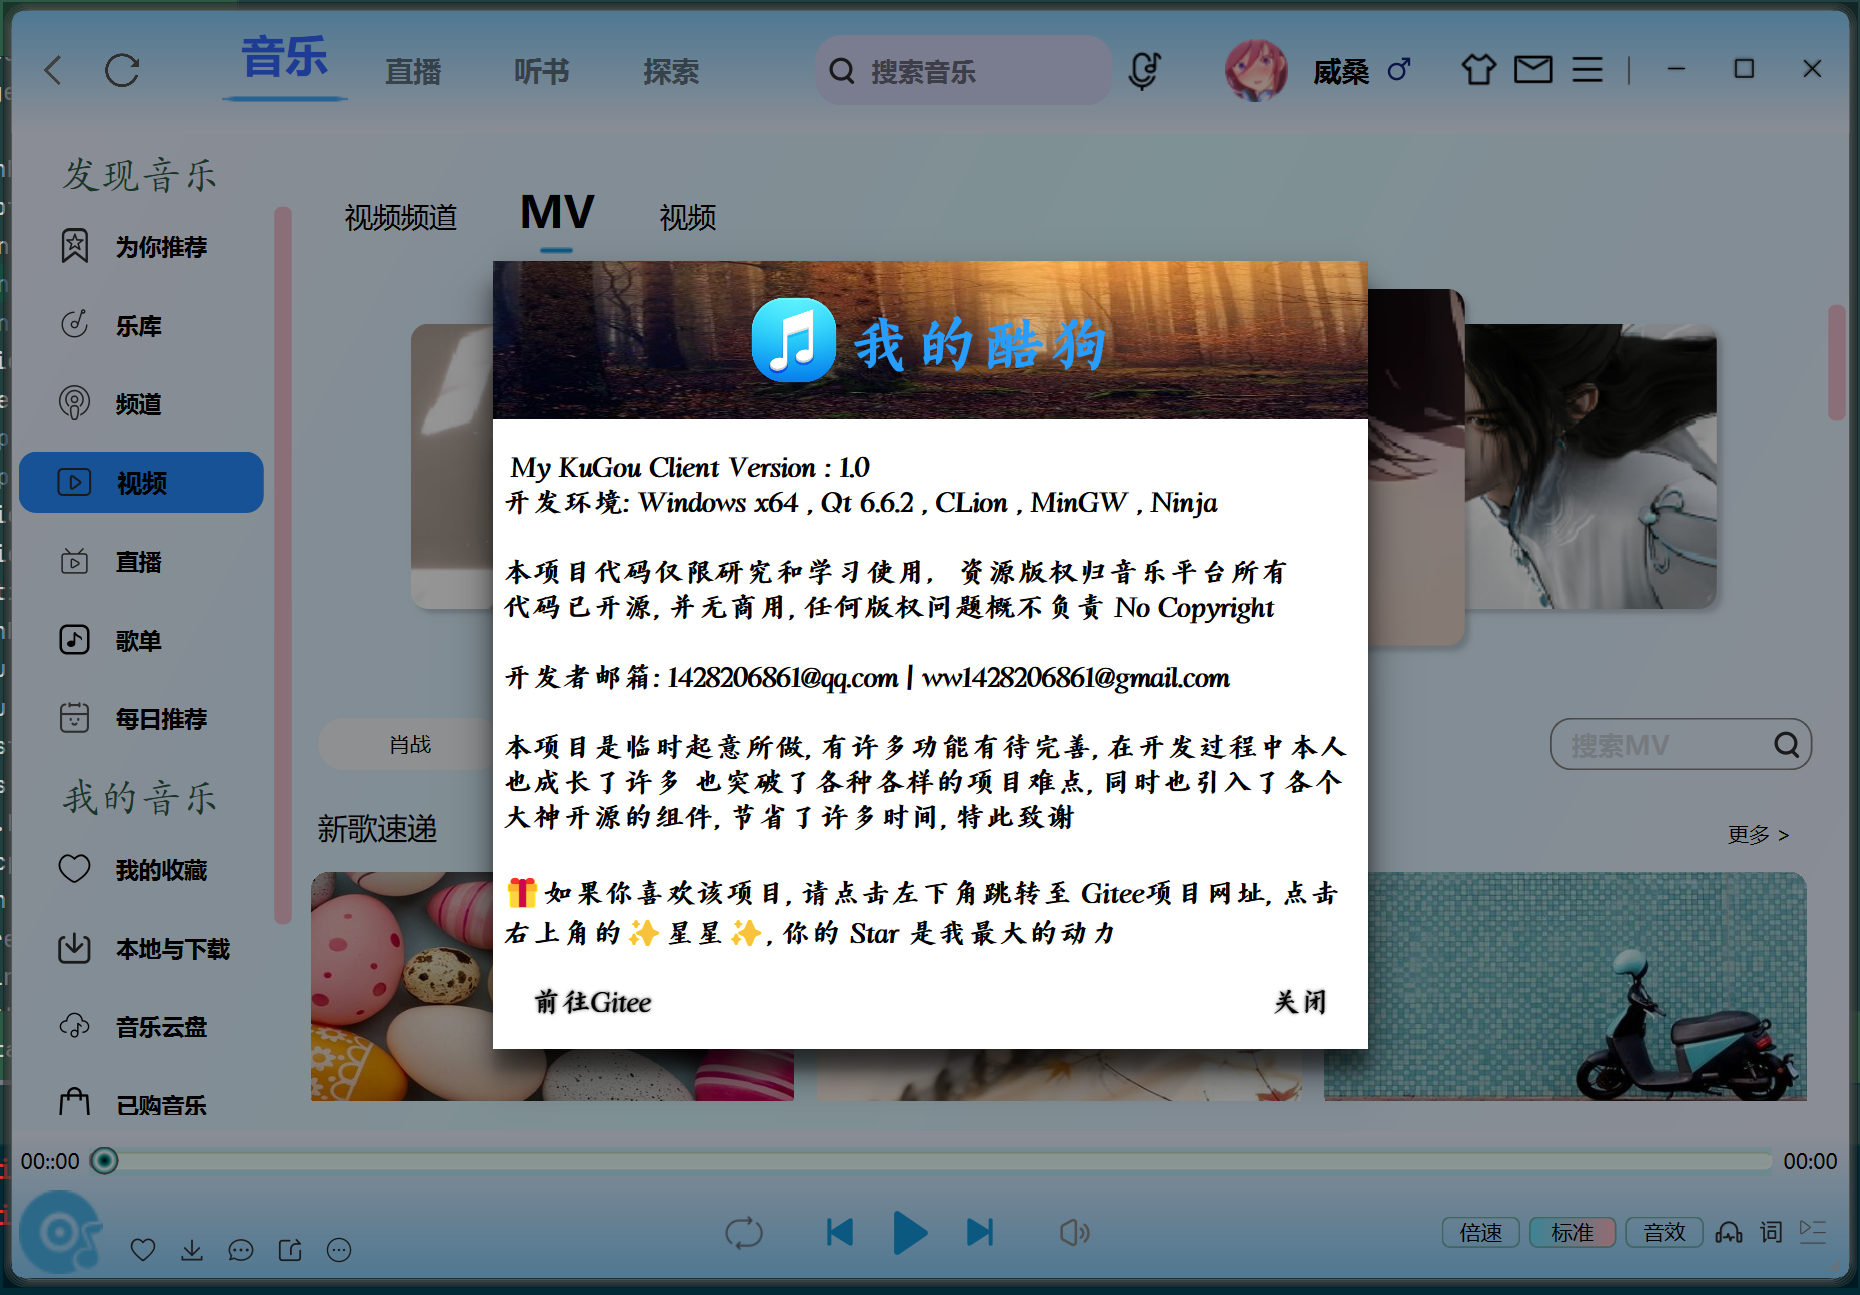
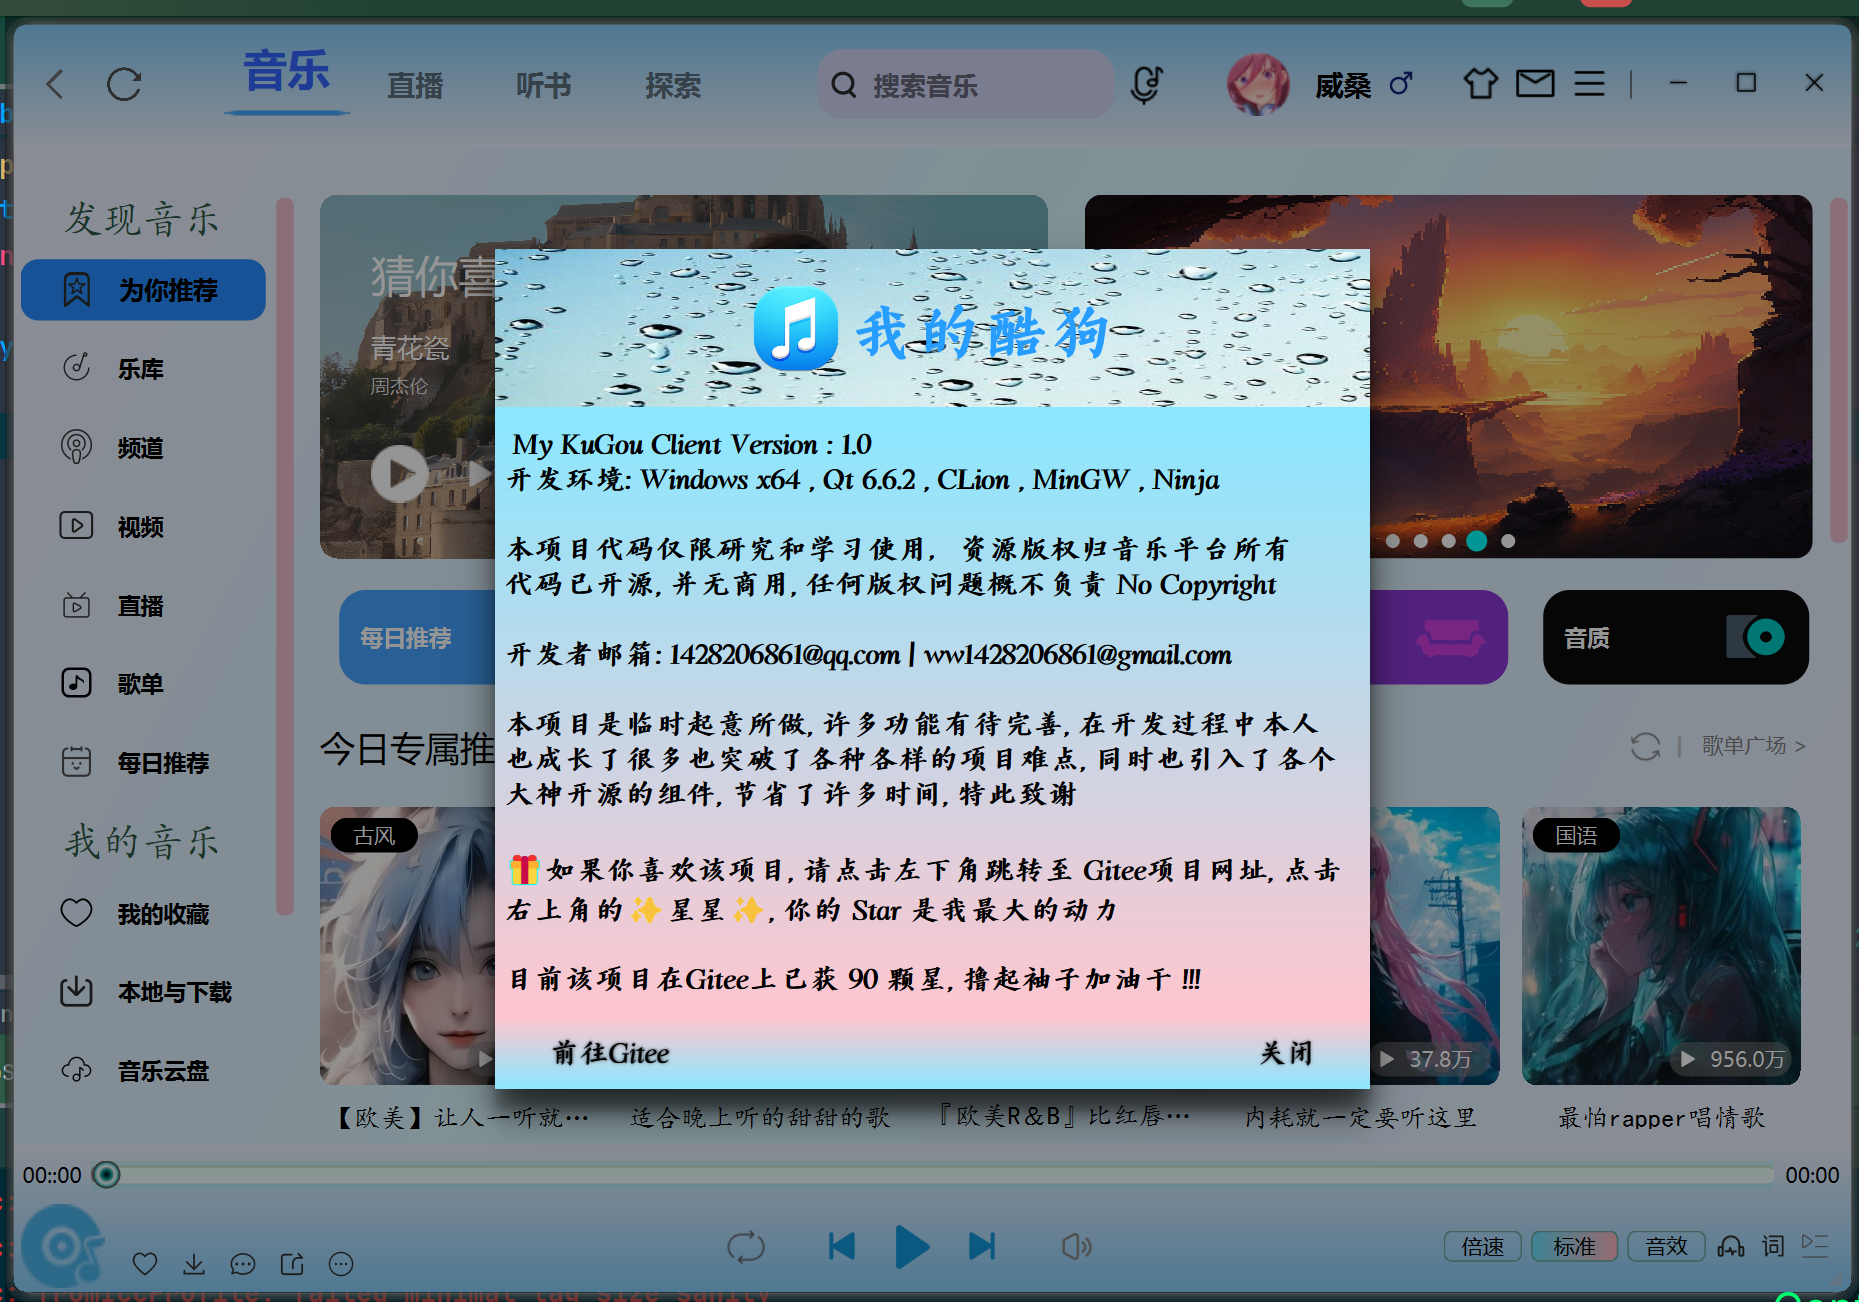
美化AboutDialog

diff --git a/ui/MyDialog/AboutDialog/AboutDialog.cpp b/ui/MyDialog/AboutDialog/AboutDialog.cpp
@@ -7,6 +7,10 @@
 #include "logger.hpp"
 #include "RippleButton.h"
 #include "ElaText.h"
+#include "Async.h"
+
+#include <QJsonDocument>
+#include <QJsonObject>
 #include <QFontDatabase>
 #include <QVBoxLayout>
 #include <QDesktopServices>
@@ -14,13 +18,13 @@
 #include <QPainter>
 #include <QPainterPath>
 #include <QRandomGenerator>
-#include <QUrl>
 
 AboutDialog::AboutDialog(QWidget *parent)
     : QWidget(parent)
     , m_dialog(new QtMaterialDialog)
     , m_topWidget(new QWidget(this))
 {
+    this->setAutoFillBackground(true);  // 启用背景填充
     this->m_font = QFont("AaSongLiuKaiTi");
 
     this->setSizePolicy(QSizePolicy::Expanding, QSizePolicy::Expanding);
@@ -34,8 +38,8 @@ AboutDialog::AboutDialog(QWidget *parent)
     m_dialog->setSizePolicy(QSizePolicy::Expanding, QSizePolicy::Expanding);
 
     auto dialogWidget = new QWidget;
-    dialogWidget->setAttribute(Qt::WA_TranslucentBackground);
-    dialogWidget->setFixedSize(500,450);
+    dialogWidget->setAttribute(Qt::WA_TranslucentBackground,false);
+    dialogWidget->setFixedSize(500,480);
 
     dialogLayout->addWidget(dialogWidget);
 
@@ -44,11 +48,13 @@ AboutDialog::AboutDialog(QWidget *parent)
     dialogWidgetLayout->setContentsMargins(0, 0, 0, 0);
     dialogWidgetLayout->setSpacing(0);
     initDialog(dialogWidgetLayout);
+    this->setStyleSheet("background-color: qlineargradient(spread:pad,x1:0, y1:0,x2:0, y2:1,stop:0 rgba(105, 225, 255, 200), stop:1 rgba(255, 182, 193, 200));");
 }
 
 void AboutDialog::initDialog(QVBoxLayout *lay) {
     //最上面先来个widget,填充背景图片
     this->m_topWidget->setFixedHeight(90);
+    this->m_topWidget->setContentsMargins(0, 0, 0, 0);
     this->m_topWidget->setSizePolicy(QSizePolicy::Expanding, QSizePolicy::Fixed);
     this->m_topWidget->setObjectName("topWidget");
     this->m_topWidget->setStyleSheet(QString("QWidget#topWidget{background-color: transparent;border-image: url(:/RectCover/Res/rectcover/music-rect-cover%1.jpg);}").
@@ -68,63 +74,88 @@ void AboutDialog::initDialog(QVBoxLayout *lay) {
     topWidgetLayout->addWidget(lab1);
     topWidgetLayout->addWidget(lab2);
     topWidgetLayout->addStretch();
+    QString url = "https://gitee.com/api/v5/repos/a-mo-xi-wei/KuGouApp";
+    const auto future = Async::runAsync(QThreadPool::globalInstance(), &AboutDialog::getGiteeProjectStar,
+        this,url);
+    Async::onResultReady(future, this, [=](const int &stars) {
+        //中间的介绍文本
+        QString descText = QString("\n  My KuGou Client Version : 1.0\n"
+            " 开发环境: Windows x64 , Qt 6.6.2 , CLion , MinGW , Ninja\n\n"
+            " 本项目代码仅限研究和学习使用，资源版权归音乐平台所有\n"
+            " 代码已开源, 并无商用, 任何版权问题概不负责 No Copyright\n\n"
+            " 开发者邮箱: 1428206861@qq.com | ww1428206861@gmail.com\n\n"
+            " 本项目是临时起意所做, 许多功能有待完善, 在开发过程中本人\n 也成长了很多"
+            "也突破了各种各样的项目难点, 同时也引入了各个\n 大神开源的组件, 节省了许多时间, 特此致谢\n\n"
+            " 🎁如果你喜欢该项目, 请点击左下角跳转至 Gitee项目网址, 点击\n 右上角的✨星星✨, 你的 Star 是我最大的动力\n\n"
+            " 目前该项目在Gitee上已获 %1 颗星, 撸起袖子加油干 !!! \n\n").arg(stars);
+        ElaText* descTitle = new ElaText(descText, this);
+        auto style = descTitle->styleSheet();
+        descTitle->setStyleSheet("background-color: qlineargradient(spread:pad,x1:0, y1:0,x2:0, y2:1,stop:0 rgba(105, 225, 255, 200), stop:1 rgba(255, 182, 193, 200));");
+        descTitle->setTextStyle(ElaTextType::BodyStrong);
+        auto font = QFont("AaSongLiuKaiTi");//需要通过KuGouApp::initFontRes()打印得知真实字体名
+        font.setPixelSize(17);
+        font.setWeight(QFont::Bold);
+        descTitle->setFont(font);
 
-    //中间的介绍文本
-    QString descText = "\n  My KuGou Client Version : 1.0\n"
-        " 开发环境: Windows x64 , Qt 6.6.2 , CLion , MinGW , Ninja\n\n"
-        " 本项目代码仅限研究和学习使用，资源版权归音乐平台所有\n"
-        " 代码已开源, 并无商用, 任何版权问题概不负责 No Copyright\n\n"
-        " 开发者邮箱: 1428206861@qq.com | ww1428206861@gmail.com\n\n"
-        " 本项目是临时起意所做, 有许多功能有待完善, 在开发过程中本人\n 也成长了许多"
-        " 也突破了各种各样的项目难点, 同时也引入了各个\n 大神开源的组件, 节省了许多时间, 特此致谢\n\n"
-        " 🎁如果你喜欢该项目, 请点击左下角跳转至 Gitee项目网址, 点击\n 右上角的✨星星✨, 你的 Star 是我最大的动力\n\n";
-    ElaText* descTitle = new ElaText(descText, this);
-    descTitle->setTextStyle(ElaTextType::BodyStrong);
-    auto font = QFont("AaSongLiuKaiTi");//需要通过KuGouApp::initFontRes()打印得知真实字体名
-    font.setPixelSize(17);
-    font.setWeight(QFont::Bold);
-    descTitle->setFont(font);
+        lay->addWidget(this->m_topWidget);
+        lay->addWidget(descTitle);
+        lay->addStretch();
 
-    lay->addWidget(this->m_topWidget);
-    lay->addWidget(descTitle);
-    lay->addStretch();
+        //底部两个按钮
+        auto goToGiteeButton = new RippleButton(m_dialog);
+        goToGiteeButton->setCursor(Qt::PointingHandCursor);
+        goToGiteeButton->setText("前往Gitee");
+        goToGiteeButton->setFillColor(QColor(QStringLiteral("#969696")));
+        goToGiteeButton->setStyleSheet("background: transparent; border: none;");
+        goToGiteeButton->setRadius(10);
+        goToGiteeButton->setSpeed(5);
+        this->m_font.setPointSize(13);
+        this->m_font.setBold(false);
+        goToGiteeButton->setFont(this->m_font);
+        auto closeButton = new RippleButton(m_dialog);
+        closeButton->setCursor(Qt::PointingHandCursor);
+        closeButton->setText("关闭");
+        closeButton->setFillColor(QColor(QStringLiteral("#FF0066")));
+        closeButton->setStyleSheet("background: transparent; border: none;");
+        closeButton->setRadius(10);
+        closeButton->setFont(this->m_font);
 
-    //底部两个按钮
-    auto goToGiteeButton = new RippleButton(m_dialog);
-    goToGiteeButton->setCursor(Qt::PointingHandCursor);
-    goToGiteeButton->setText("前往Gitee");
-    goToGiteeButton->setFillColor(QColor(QStringLiteral("#969696")));
-    goToGiteeButton->setStyleSheet("background: transparent; border: none;");
-    goToGiteeButton->setRadius(10);
-    goToGiteeButton->setSpeed(5);
-    this->m_font.setPointSize(13);
-    this->m_font.setBold(false);
-    goToGiteeButton->setFont(this->m_font);
-    auto closeButton = new RippleButton(m_dialog);
-    closeButton->setCursor(Qt::PointingHandCursor);
-    closeButton->setText("关闭");
-    closeButton->setFillColor(QColor(QStringLiteral("#FF0066")));
-    closeButton->setStyleSheet("background: transparent; border: none;");
-    closeButton->setRadius(10);
-    closeButton->setFont(this->m_font);
+        auto bottomWidget = new QWidget(this);
+        bottomWidget->setStyleSheet("background-color: qlineargradient(spread:pad,x1:0, y1:0,x2:0, y2:1,stop:0 rgba(255, 182, 193, 200), stop:1 rgba(105, 225, 255, 200));");
+        auto bottomHLay = new QHBoxLayout(bottomWidget);
+        bottomHLay->addSpacing(15);
+        bottomHLay->addWidget(goToGiteeButton);
+        bottomHLay->addStretch();
+        bottomHLay->addWidget(closeButton);
+        bottomHLay->addSpacing(15);
 
-    auto bottomHLay = new QHBoxLayout;
-    bottomHLay->addSpacing(15);
-    bottomHLay->addWidget(goToGiteeButton);
-    bottomHLay->addStretch();
-    bottomHLay->addWidget(closeButton);
-    bottomHLay->addSpacing(15);
+        lay->addWidget(bottomWidget);
+        lay->setAlignment(bottomHLay, Qt::AlignBottom);
 
-    lay->addLayout(bottomHLay);
-    lay->addSpacing(15);
-    lay->setAlignment(bottomHLay, Qt::AlignBottom);
-
-    closeButton->setMaximumWidth(150);
-    connect(goToGiteeButton, &RippleButton::clicked, []() {
-        QDesktopServices::openUrl(QUrl("https://gitee.com/a-mo-xi-wei/KuGouApp"));
+        closeButton->setMaximumWidth(150);
+        connect(goToGiteeButton, &RippleButton::clicked, []() {
+            QDesktopServices::openUrl(QUrl("https://gitee.com/a-mo-xi-wei/KuGouApp"));
+        });
+        connect(closeButton, &RippleButton::pressed, m_dialog, &QtMaterialDialog::hideDialog);
     });
-    connect(closeButton, &RippleButton::pressed, m_dialog, &QtMaterialDialog::hideDialog);
 
+}
+
+int AboutDialog::getGiteeProjectStar(const QString &url) {
+    const QString reply = m_libHttp.UrlRequestGet(url, "");
+    const QJsonDocument jsonDoc = QJsonDocument::fromJson(reply.toUtf8());
+
+    QJsonObject jsonObj = jsonDoc.object();
+
+    // 检查是否包含 stargazers_count 字段
+    if (!jsonObj.contains("stargazers_count")) {
+        qWarning() << "Invalid JSON response: stargazers_count not found";
+        STREAM_WARN()<< "Invalid JSON response: stargazers_count not found";
+        return -1;
+    }
+    STREAM_INFO()<<"获取到当前 Star 数量 : "<<jsonObj["stargazers_count"].toInt();
+    // 返回 Star 数量
+    return jsonObj["stargazers_count"].toInt();
 }
 
 void AboutDialog::onShowDialog() {

diff --git a/ui/MyDialog/AboutDialog/AboutDialog.h b/ui/MyDialog/AboutDialog/AboutDialog.h
@@ -6,6 +6,7 @@
 #define ABOUTDIALOG_H
 
 #include <QWidget>
+#include "libhttp.h"
 
 #if defined(ABOUTDIALOG_LIBRARY)
 #define ABOUTDIALOG_EXPORT Q_DECL_EXPORT
@@ -25,6 +26,8 @@ public:
 private:
     void initDialog(QVBoxLayout* lay);
 
+    int getGiteeProjectStar(const QString& url);
+
 public slots:
     void onShowDialog();
 
@@ -34,6 +37,9 @@ private:
     QtMaterialDialog *const m_dialog;
     QWidget* m_topWidget{};
     QFont m_font;
+
+    //发送网络请求
+    CLibhttp m_libHttp;
 };
 
 
